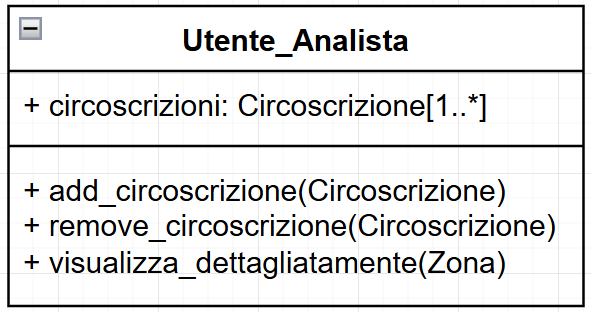
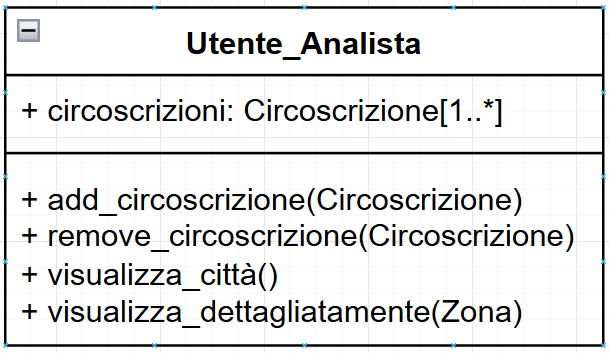
updated class diagram, added class diagram to API mapping

Changed region(s): [[0.0, 0.0, 1.0, 1.0]]

diff --git a/deliverable/D2/main.tex b/deliverable/D2/main.tex
@@ -144,5 +144,7 @@
 
     \include{chapter/03-definizioneClassi}
     
+    \include{chapter/04-daClassDiagramAPI}
+    
     % \afterpage{\blankpage} % Uncomment this line if to print as a booklet
 \end{document}
